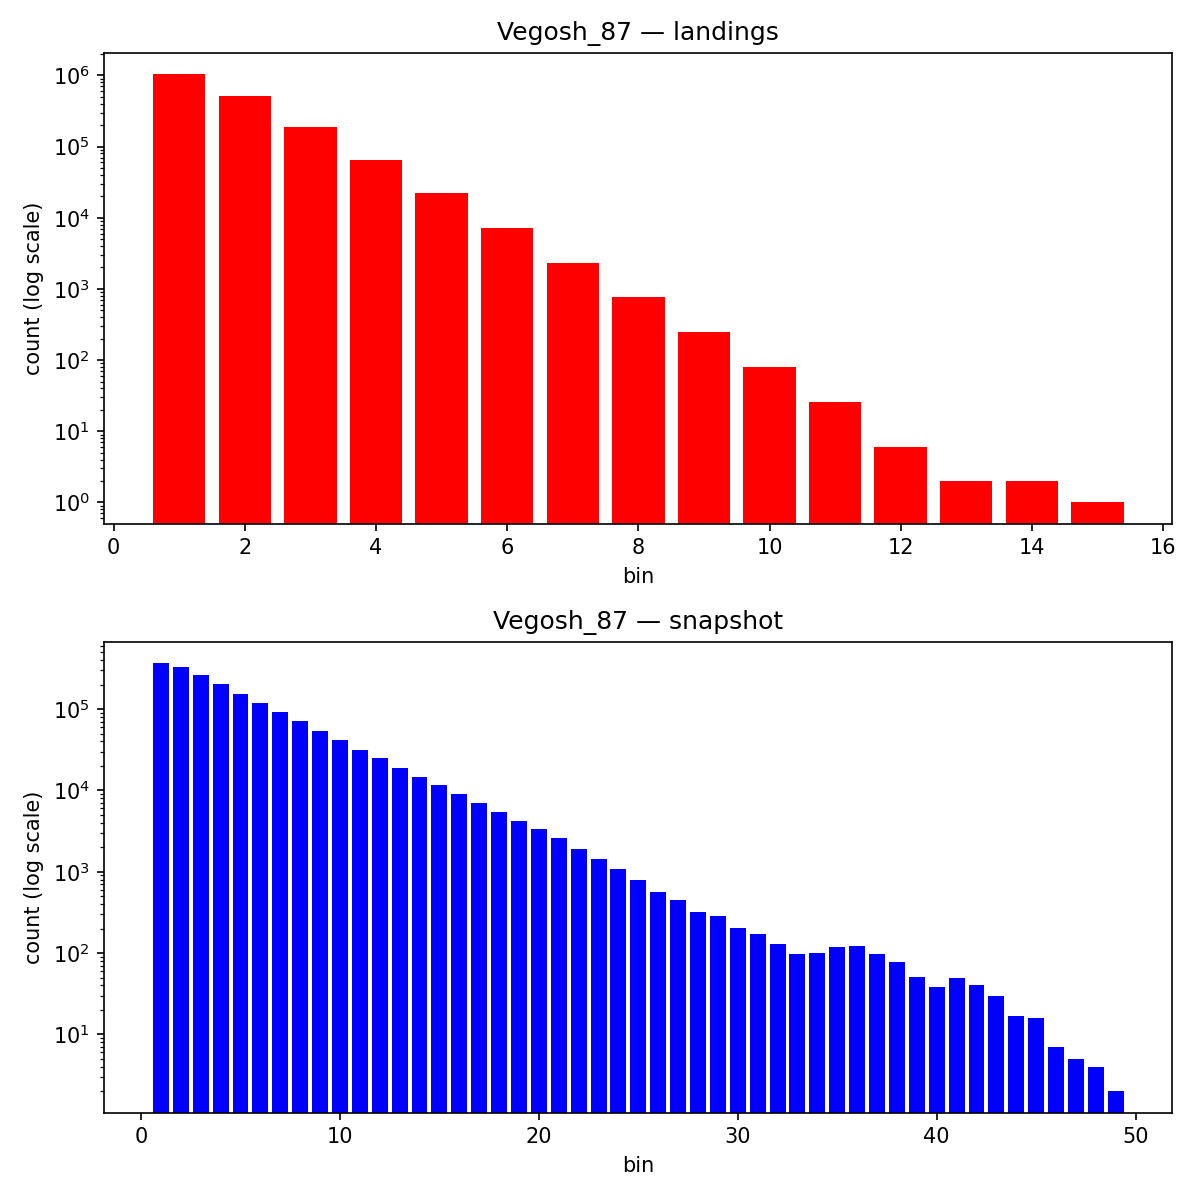
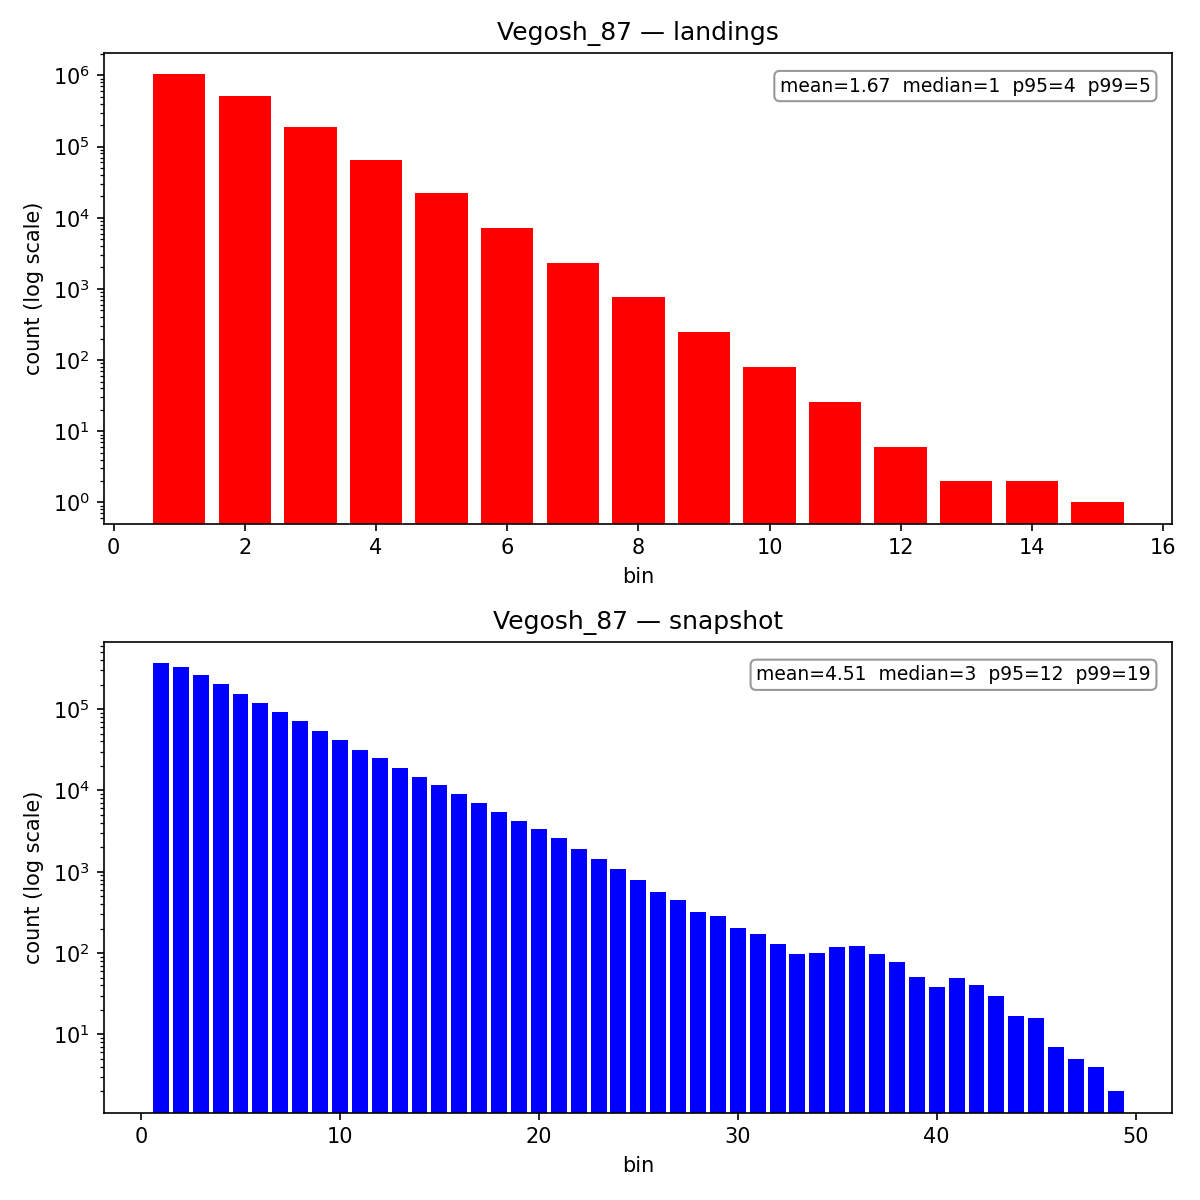
histogram plots now show mean, median and p99

Changed region(s): [[0.6167, 0.555, 0.9558, 0.5858], [0.6475, 0.0617, 0.9558, 0.0925]]

diff --git a/hist/plot_hist.py b/hist/plot_hist.py
@@ -1,5 +1,17 @@
 #!/usr/bin/env python3
+"""
+Build stacked landing/snapshot histogram plots for every CSV in a directory.
 
+Expected CSV structure (one file per histogram set):
+landings
+1,1032798
+2,513864
+...
+snapshot
+1,367708
+2,329540
+...
+"""
 import csv
 import sys
 from pathlib import Path
@@ -30,6 +42,48 @@ def parse_sectioned_csv(path: Path) -> dict[str, list[tuple[int, int]]]:
                 sections[current].append((int(bin_), int(count)))
     return sections
 
+
+def weighted_stats(data: list[tuple[int, int]]) -> dict[str, float]:
+    """Compute mean, median, p95, p99 from (bin, count) pairs without expanding."""
+    data = sorted(data, key=lambda pair: pair[0])
+    total = sum(count for _, count in data)
+
+    # mean
+    mean = sum(bin_ * count for bin_, count in data) / total
+
+    def percentile(p: float) -> float:
+        target = p * total
+        cum = 0
+        for bin_, count in data:
+            cum += count
+            if cum >= target:
+                return float(bin_)
+        return float(data[-1][0])
+
+    return {
+        "mean": mean,
+        "median": percentile(0.50),
+        "p95": percentile(0.95),
+        "p99": percentile(0.99),
+    }
+
+
+def annotate_stats(ax, stats: dict[str, float]):
+    text = (
+        f"mean={stats['mean']:.2f}  "
+        f"median={stats['median']:.0f}  "
+        f"p95={stats['p95']:.0f}  "
+        f"p99={stats['p99']:.0f}"
+    )
+    ax.text(
+        0.98, 0.95, text,
+        transform=ax.transAxes,
+        ha="right", va="top",
+        fontsize=9,
+        bbox=dict(boxstyle="round", facecolor="white", alpha=0.8, edgecolor="gray"),
+    )
+
+
 def plot_histograms(path: Path, sections: dict, out_dir: Path):
     fig, (ax_land, ax_snap) = plt.subplots(2, 1, figsize=(8, 8))
 
@@ -42,6 +96,7 @@ def plot_histograms(path: Path, sections: dict, out_dir: Path):
         ax_land.set_title(f"{out_name} — landings")
         ax_land.set_xlabel("bin")
         ax_land.set_ylabel("count (log scale)")
+        annotate_stats(ax_land, weighted_stats(sections["landings"]))
 
     if "snapshot" in sections:
         x, y = zip(*sections["snapshot"])
@@ -50,12 +105,15 @@ def plot_histograms(path: Path, sections: dict, out_dir: Path):
         ax_snap.set_title(f"{out_name} — snapshot")
         ax_snap.set_xlabel("bin")
         ax_snap.set_ylabel("count (log scale)")
+        annotate_stats(ax_snap, weighted_stats(sections["snapshot"]))
 
     fig.tight_layout()
     out_path = out_dir / f"{out_name}.png"
     fig.savefig(out_path, dpi=150)
     plt.close(fig)
     print(f"wrote {out_path}")
+
+
 def main():
     hist_dir = Path(sys.argv[1]) if len(sys.argv) > 1 else Path(".")
     out_dir = hist_dir / "plots"
